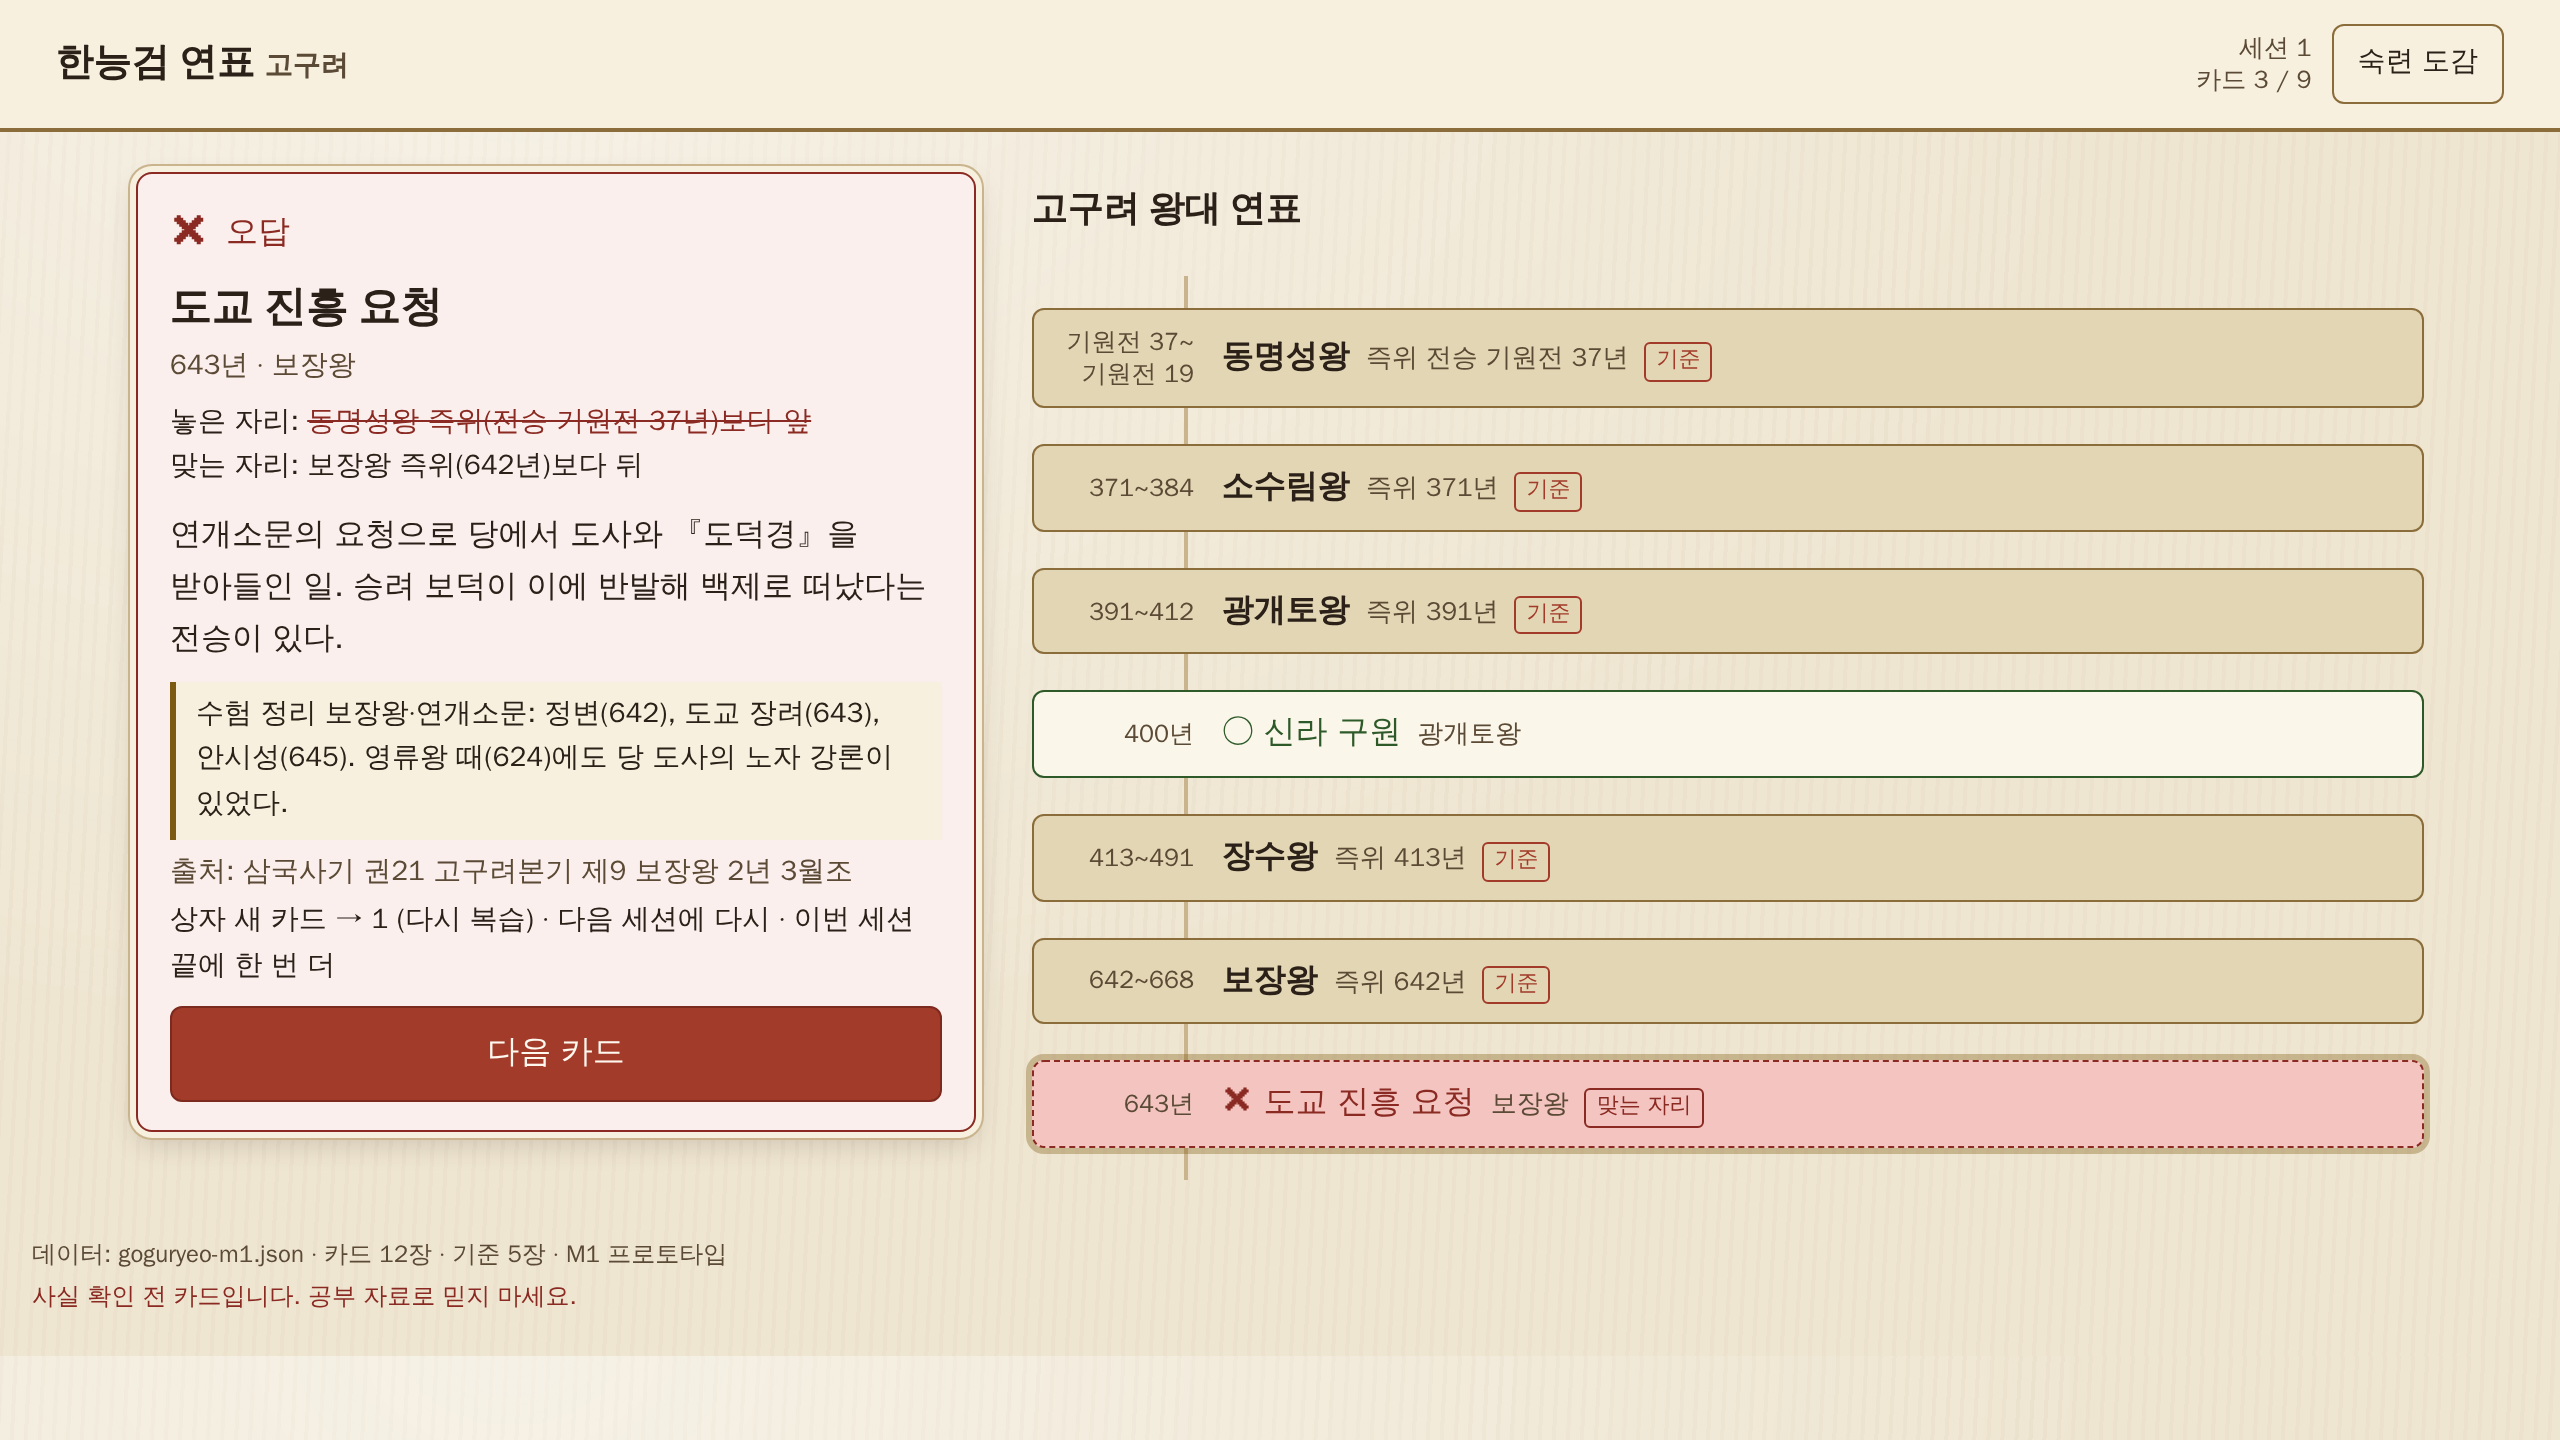
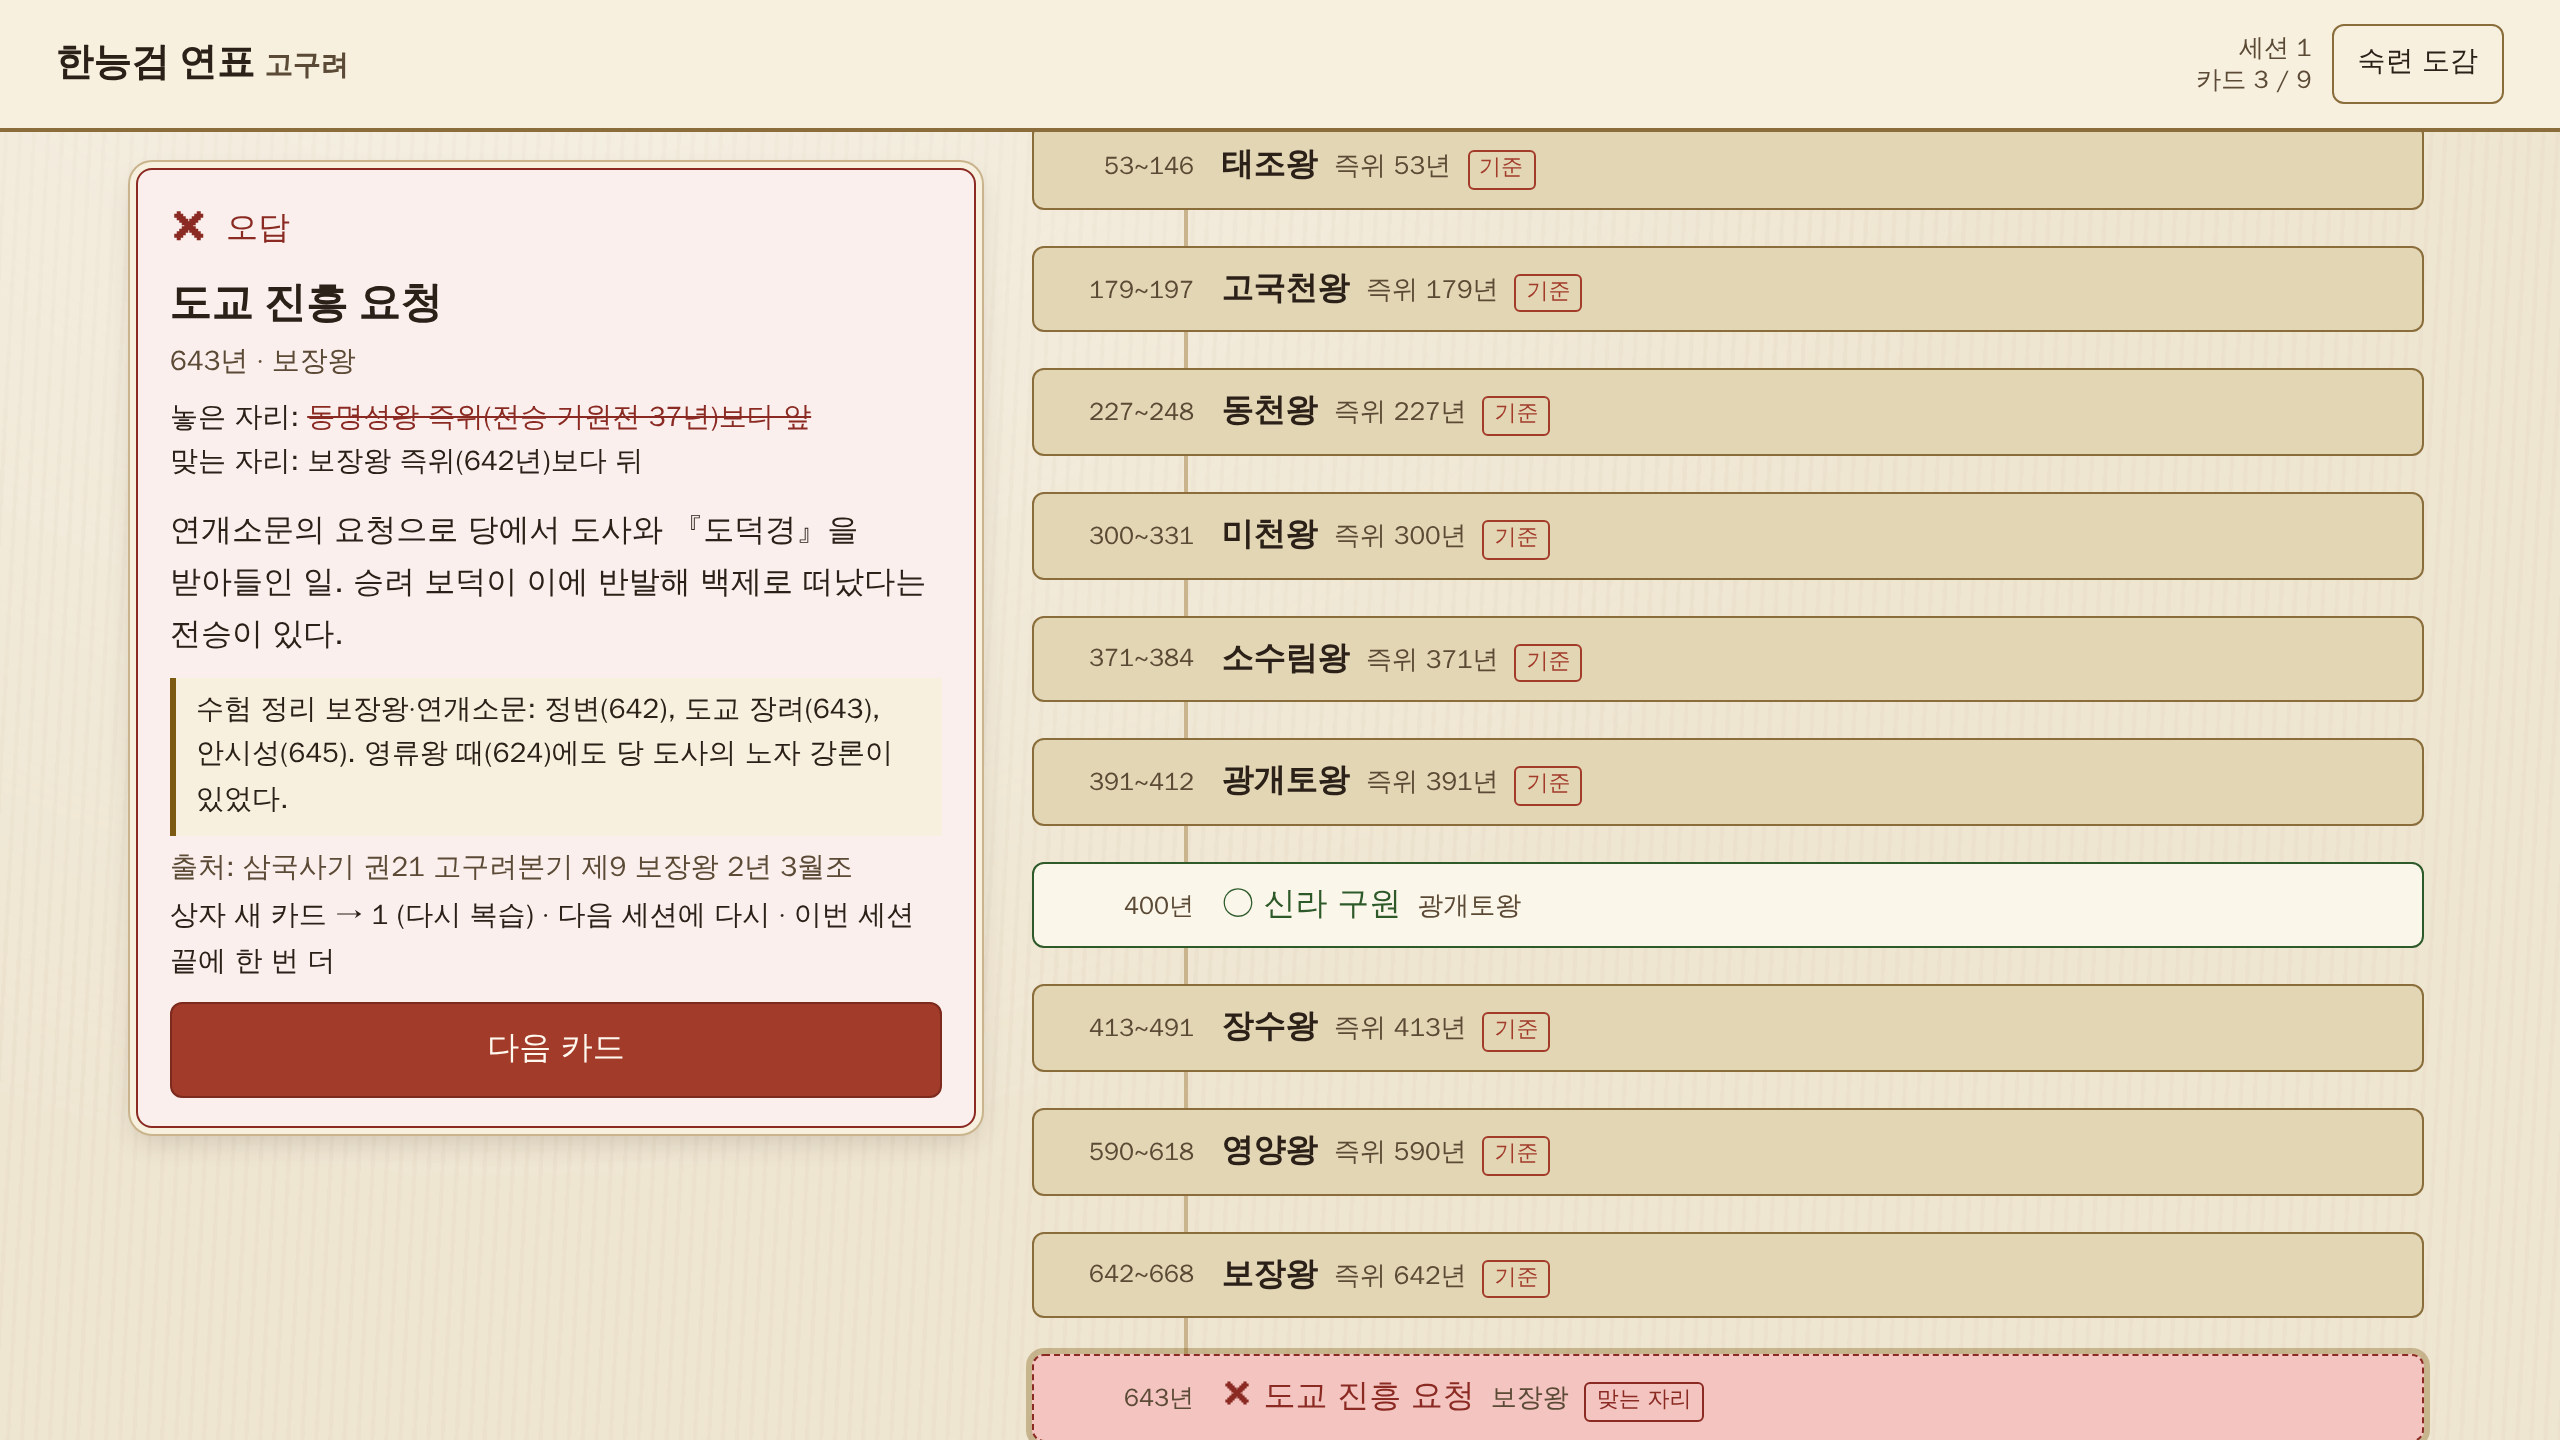
fix: show reigns for all ten Goguryeo anchors, derive expectations from data
Merge claude/integration (ce45af7). Content grew anchors to 10; tests
hardcoded the five old reign labels, so e2e (2) and e2e-dist (1) failed
for the same reason. Added the five new reigns to data/reigns.json
(display only, not fact-checked, variants noted) and made tests compute
expected labels from the data; real-data E2E now fails if any anchor
lacks a reign range.

Tests: 34 unit, 23 E2E incl. dist. Screenshots refreshed.

Refs: docs/decision-log.md D64

Claude-Session: https://claude.ai/code/session_01KFwKcXZaAYXL5Re7NZj86K

diff --git a/docs/decision-log.md b/docs/decision-log.md
@@ -399,6 +399,12 @@
 - **앵커 note**: 새 앵커 4개에 복사돼 있던 "미천왕 300년은 한 자료에 기댐" 문장을 지우고, 미천왕 앵커에 확인 근거(봉상왕 9년 창조리 정변으로 즉위, 2차 자료 여럿)를 적었다.
 - 관계 단서를 한쪽만 주는 것(D62)은 의도된 설계로 유지한다.
 
+## 2026-11-05 D64. M1: 늘어난 왕 앵커의 재위 표시와 테스트 하드코딩 제거 (웹 빌드 세션)
+- **원인**: 콘텐츠가 앵커를 10개로 늘린 뒤(08ad37b) E2E 2개와 배포본 E2E 1개가 실패했다. 셋 다 같은 원인: 테스트가 재위 표시를 앵커 5개 값으로 하드코딩했고, 새 앵커 5개는 `reigns.json`에 없어 즉위 연도만 보였다.
+- **재위 추가**(`prototypes/m1-timeline/data/reigns.json`, 표시용·판정에 안 씀·사실 확인 전): 태조왕 53~146, 고국천왕 179~197, 동천왕 227~248, 미천왕 300~331, 영양왕 590~618. 웹 검색(2차 자료) 기준이며, 끝 연도가 자료마다 1년씩 다른 경우(태조왕 145/146, 미천왕 330/331/332, 영양왕 589·590/617·618 표기)는 `alt`에 적었다. 원문 대조는 하지 않았다.
+- **테스트**: 기준 카드 줄의 기대값을 데이터(앵커의 `reign_range` 또는 `reigns.json`)에서 계산하게 바꿨다. 실제 초안 E2E는 모든 기준 카드에 재위 기간("~")이 보이는지도 확인한다(앵커가 늘었는데 재위 표가 없으면 바로 실패).
+- **권고**: 재위 기간은 사실 데이터이므로 프로토타입 표가 아니라 콘텐츠 앵커의 `reign_range`(또는 스키마 v2 필드)로 옮기는 편이 낫다. 로더는 그 값을 우선 쓰므로 옮기면 `reigns.json`은 지우면 된다.
+
 ## 남은 문제
 - 카드 44장 전부 `verified: false`. 사람의 사실 확인 전에는 출시 빌드에 넣을 카드가 없다(`validate_cards.py --release` 실패가 정상).
 - 같은 사료(삼국사기 전승)에 기댄 건국기 카드가 많다. 플레이에서 건국기 칸이 단서 3단계 의존으로 쏠리는지 볼 것.
